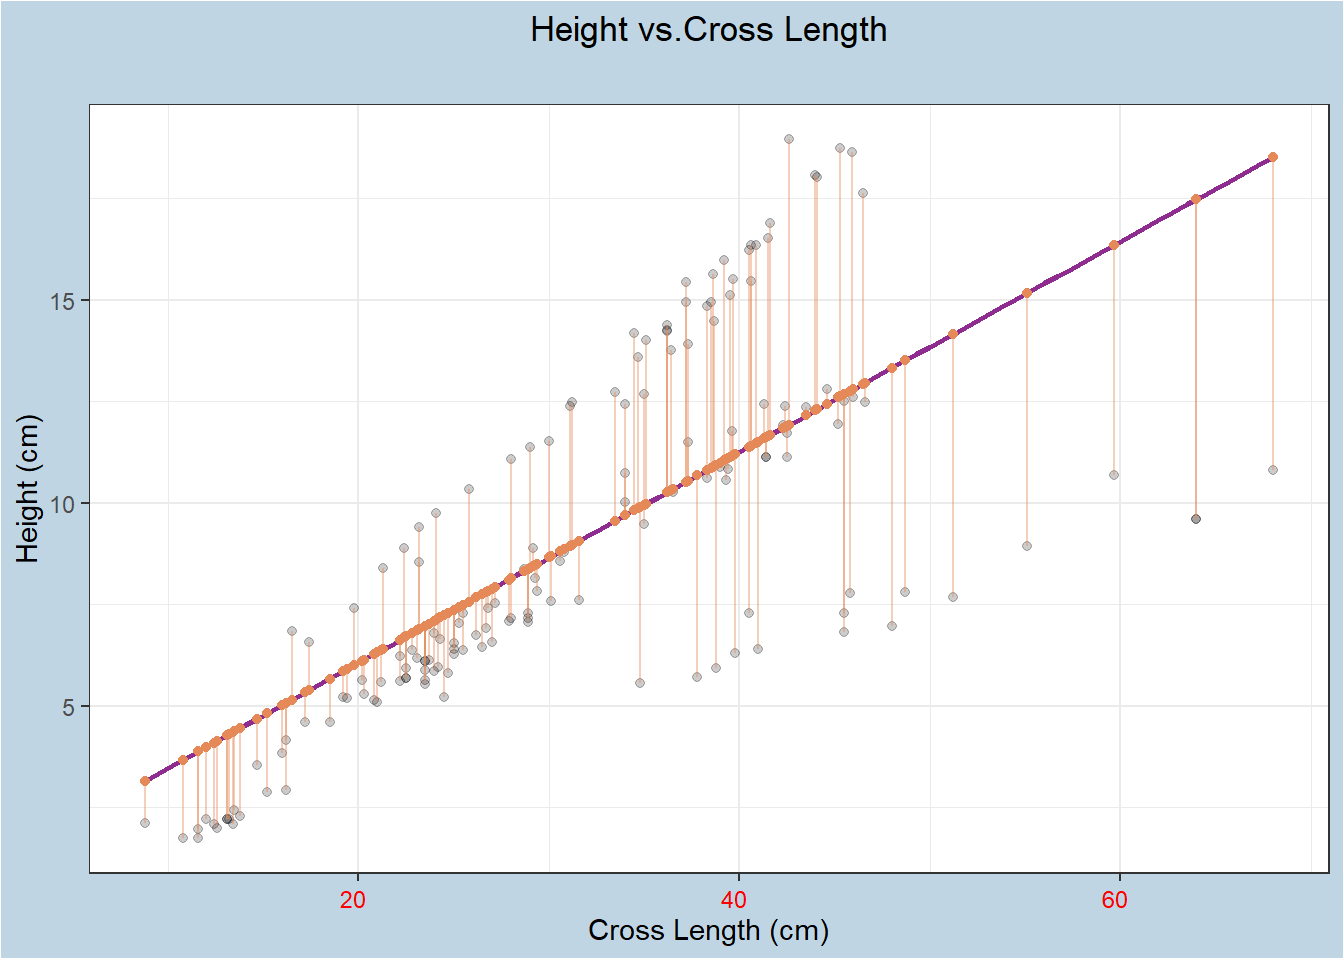
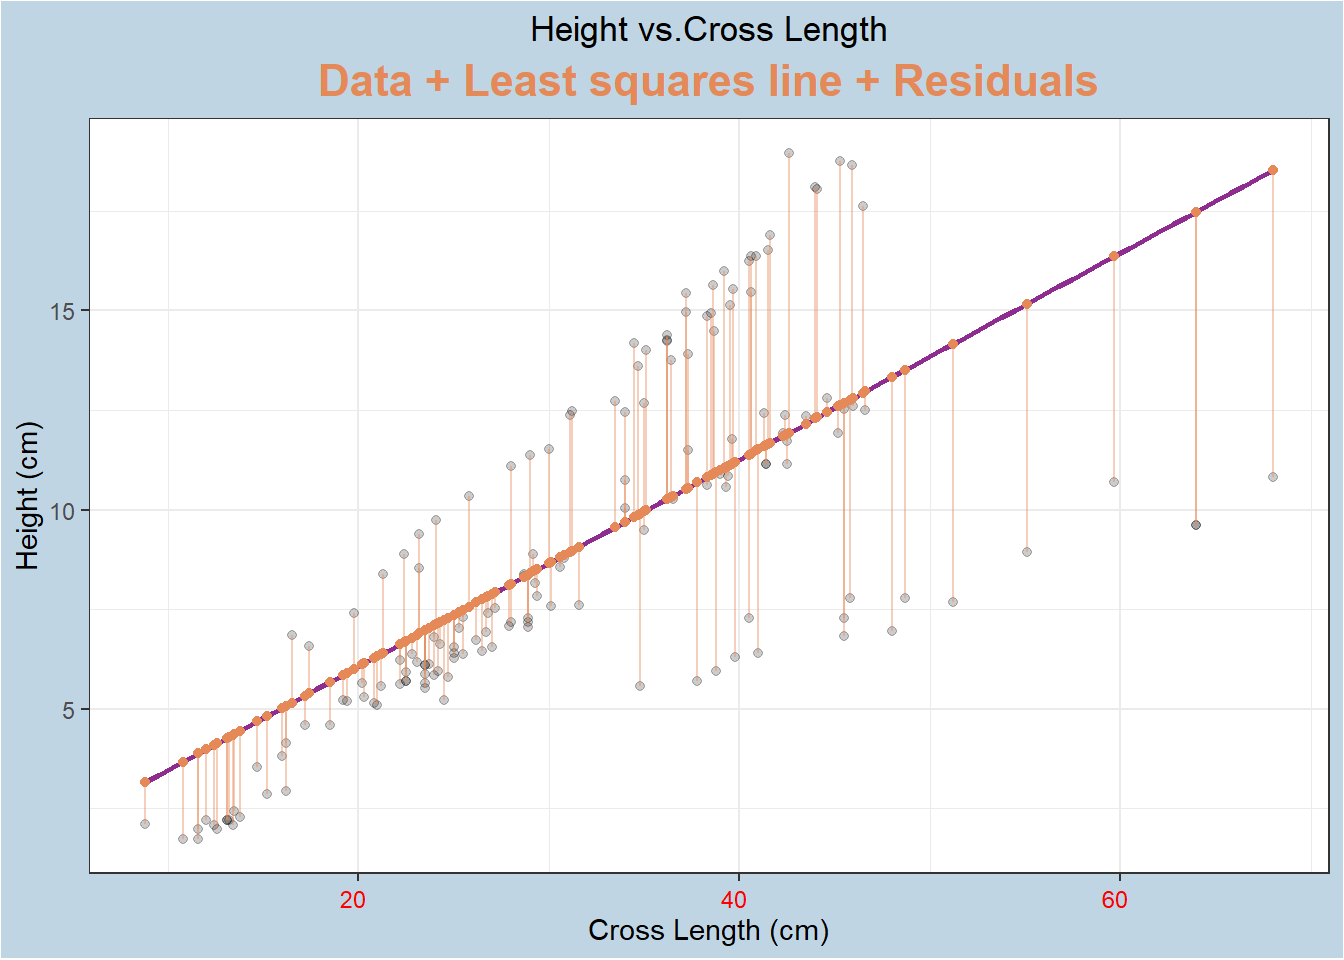
project v2

diff --git a/public/2021/06/21/project/index.html b/public/2021/06/21/project/index.html
@@ -99,9 +99,8 @@
 </div>
 <div id="section-fitting-a-model-to-predict-the-fish-height-based-on-its-cross-length" class="section level1">
 <h1>Fitting a model to predict the fish height based on it’s cross length</h1>
-</div>
-<div id="section-linear-regression-model" class="section level1">
-<h1>Linear Regression Model</h1>
+<div id="section-linear-regression-model" class="section level2">
+<h2>Linear Regression Model</h2>
 <ul>
 <li>To create a liner regression model to predict the height of a fish given its cross length, we need to determine the value of <span class="math inline">\(\beta_0\)</span> that is the population parameter for the intercept and the value of <span class="math inline">\(\beta_1\)</span> that is the population parameter for the slope as shown in the following model:</li>
 </ul>
@@ -118,10 +117,12 @@
 ##       0.8677        0.2596</code></pre>
 <hr />
 <p>Using liner regression model enables us to determine the values of both <span class="math inline">\(\beta_0\)</span> and <span class="math inline">\(\beta_1\)</span>, updating the model with the values we get the following updated model:</p>
-<p>.large[<span class="math display">\[\widehat{Height}_{i} = 0.87 + 0.26 \times Cross Length{i}\]</span>]</p>
+<p><span class="math display">\[\widehat{Height}_{i} = 0.87 + 0.26 \times Cross Length{i}\]</span></p>
 <hr />
-<p><img src="/2021/06/21/project/index_files/figure-html/weight-cross_length-plot-1.png" width="672" /></p>
-<p><img src="/2021/06/21/project/index_files/figure-html/vis-res-1-1.png" width="70%" /></p>
+<p><img src="/2021/06/21/project/index_files/figure-html/height-cross_length-plot-1.png" width="100%" /></p>
+<p><img src="/2021/06/21/project/index_files/figure-html/heightcross_length-plot-1.png" width="100%" /></p>
+<p><img src="/2021/06/21/project/index_files/figure-html/vis-res-1-1.png" width="100%" /></p>
+</div>
 </div>
 
     </div>

diff --git a/content/post/2021-06-21-project/index.html b/content/post/2021-06-21-project/index.html
@@ -61,7 +61,7 @@ output: html_document
 <p><span class="math display">\[\widehat{Height}_{i} = 0.87 + 0.26 \times Cross Length{i}\]</span></p>
 <hr />
 <p><img src="{{< blogdown/postref >}}index_files/figure-html/height-cross_length-plot-1.png" width="100%" /></p>
-<p><img src="{{< blogdown/postref >}}index_files/figure-html/heightcross_length-plot-1.png" width="672" /></p>
-<p><img src="{{< blogdown/postref >}}index_files/figure-html/vis-res-1-1.png" width="672" /></p>
+<p><img src="{{< blogdown/postref >}}index_files/figure-html/heightcross_length-plot-1.png" width="100%" /></p>
+<p><img src="{{< blogdown/postref >}}index_files/figure-html/vis-res-1-1.png" width="100%" /></p>
 </div>
 </div>
